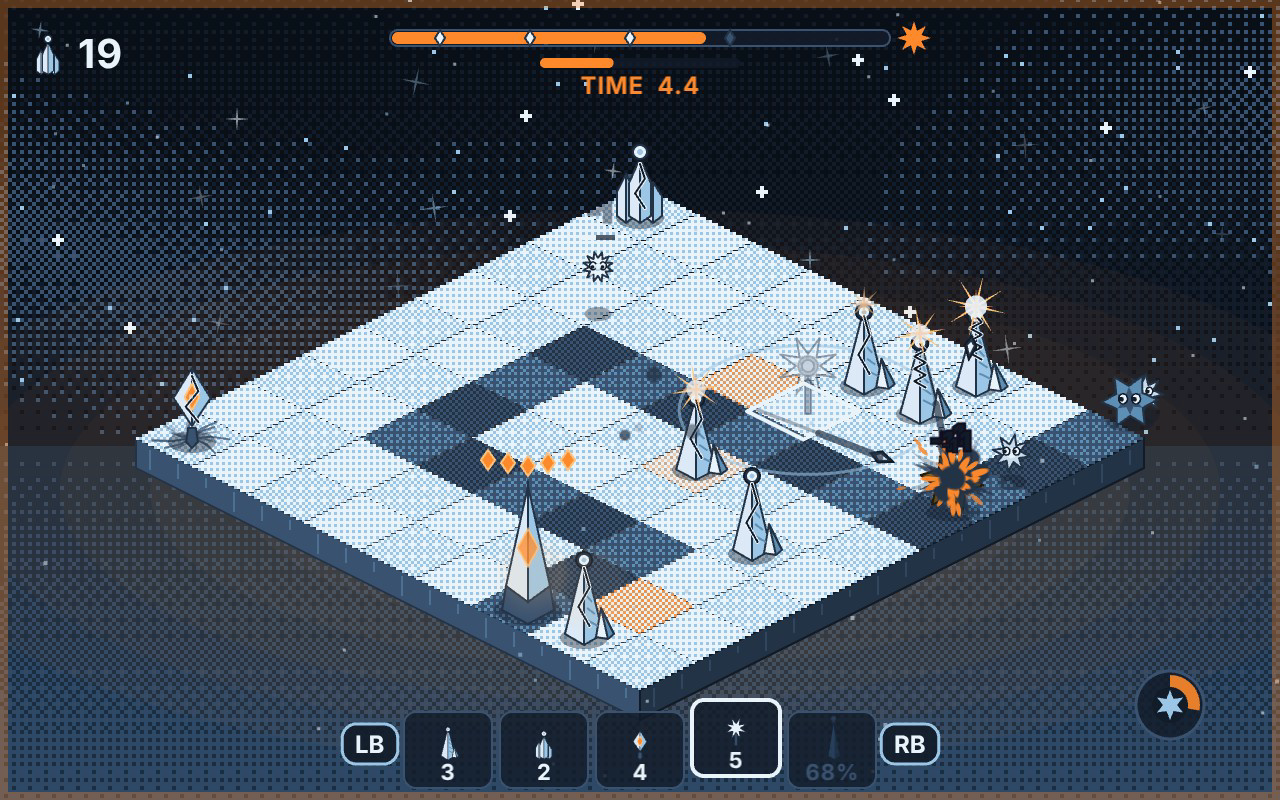
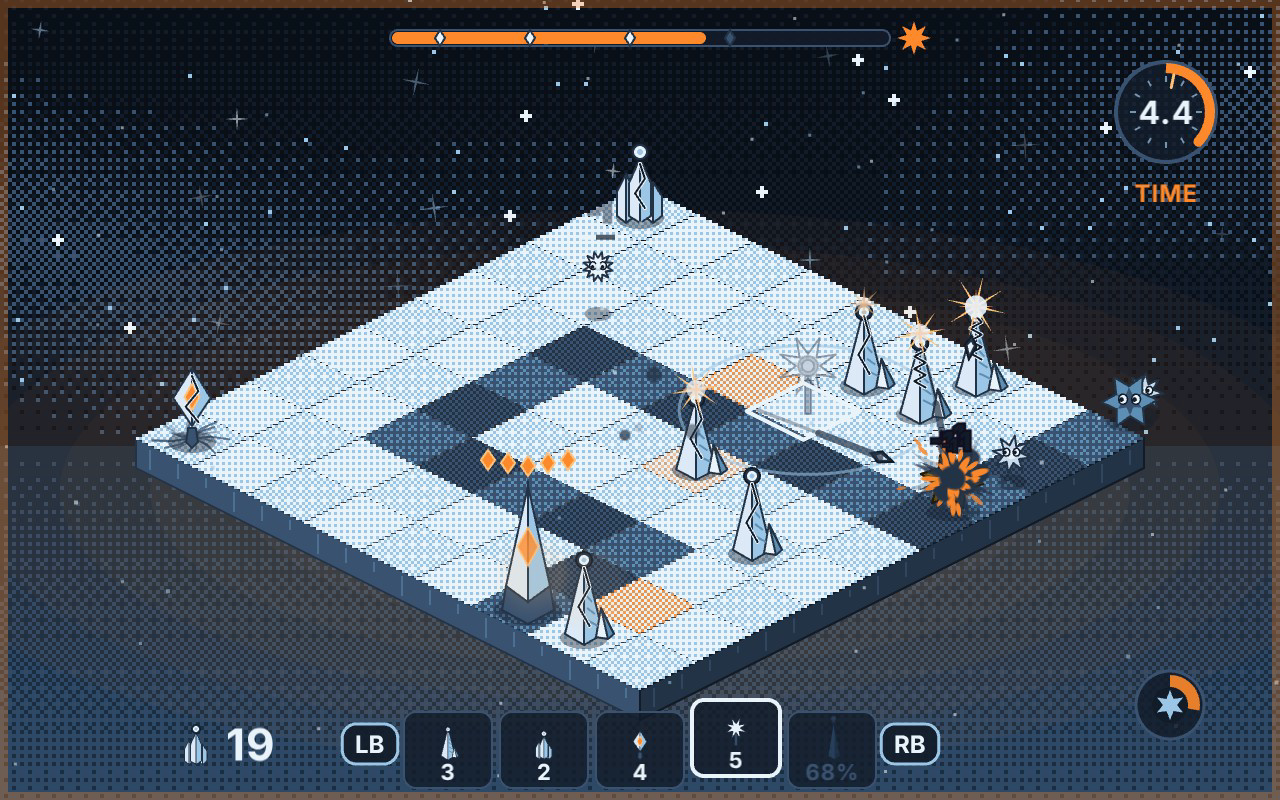
Stillwinter: ice counter beside the tray, a real dawn completion screen (rising sun, slammed title, counting tally, hearts, tier)
Claude-Session: https://claude.ai/code/session_011JBjUtYihjRYh297KB5YQM

diff --git a/src/protos/2026-10-30-stillwinter/index.ts b/src/protos/2026-10-30-stillwinter/index.ts
@@ -338,6 +338,18 @@ export function createPrototype(): Prototype {
   let endTitle!: Text;
   let endSub!: Text;
   let overlayEnd!: Graphics;
+  let winC!: Container;
+  let winSun!: Graphics;
+  let winRays!: Graphics;
+  let winTitle!: Text;
+  let winTier!: Text;
+  let winPanel!: Graphics;
+  let winRows: { label: Text; value: Text }[] = [];
+  let winHearts!: Graphics;
+  let winPrompt!: Text;
+  let winT = 0;
+  let winFlags = 0;
+  let winConfetti = 0;
 
   let curX = 640;
   let curY = 400;
@@ -480,6 +492,79 @@ export function createPrototype(): Prototype {
 
   function trayLayout(): void {
     trayPlates.forEach((p, i) => p.plate.parent && p.plate.parent.position.set(640 + (i - 2) * 96, 744));
+  }
+
+  function updateWin(dt: number): void {
+    const s = sim.s;
+    const tl = sim.telemetry();
+    winC.visible = true;
+    const lost = s.maxHearts - s.hearts;
+    // sun: rises behind the title with slowly turning rays
+    const rise = ease.outCubic(Math.min(1, winT / 1.6));
+    winSun.clear();
+    winSun.circle(0, 0, 120 * rise).fill({ color: C.glow, alpha: 0.35 });
+    winSun.circle(0, 0, 86 * rise).fill({ color: C.glow, alpha: 0.6 });
+    winSun.circle(0, 0, 54 * rise).fill({ color: 0xfff1d6, alpha: 0.95 });
+    winRays.clear();
+    star(winRays, 24, 420 * rise, 140 * rise, winT * 0.15).fill({ color: C.orange, alpha: 0.28 });
+    star(winRays, 12, 300 * rise, 120 * rise, -winT * 0.2).fill({ color: C.glow, alpha: 0.25 });
+    // title slams in
+    const ts = winT < 0.5 ? 0 : ease.outBack(Math.min(1, (winT - 0.5) / 0.45));
+    winTitle.scale.set(Math.max(0.01, 2.6 - 1.6 * ts));
+    winTitle.alpha = Math.min(1, Math.max(0, (winT - 0.5) / 0.15));
+    if (winT >= 0.55 && !(winFlags & 1)) {
+      winFlags |= 1;
+      shake(0.8);
+      hitStop(6);
+      punch(view.world as Container, 0.05);
+      ring(640, 250, C.glow, 700, 900, 8);
+      particles.emit('sparks', 640, 250, { count: 50, color: C.glow, speed: 2.4, size: 1.2 });
+      play('sw-snap', { pitch: 1.2, volume: 0.9 });
+    }
+    winTier.text = lost === 0 ? 'FLAWLESS: not a single heart lost' : lost <= 2 ? 'THE BEACON HELD' : 'THE BEACON HELD, BARELY';
+    winTier.alpha = Math.min(1, Math.max(0, (winT - 1.0) / 0.3));
+    // tally rows count up one after another
+    const rows: [string, number, string][] = [
+      ['Hearts left', s.hearts, ''],
+      ['Enemies broken', tl.kills, ''],
+      ['Best chain', tl.maxChain, 'x'],
+      ['Shatters', tl.shatters, ''],
+      ['Time released', Math.round(tl.thawedSeconds), 's'],
+    ];
+    winPanel.alpha = Math.min(1, Math.max(0, (winT - 1.2) / 0.3));
+    winHearts.clear();
+    rows.forEach(([label, v, suffix], i) => {
+      const start = 1.5 + i * 0.45;
+      const k = Math.min(1, Math.max(0, (winT - start) / 0.5));
+      const r = winRows[i];
+      r.label.text = label;
+      r.label.alpha = r.value.alpha = winT >= start ? 1 : 0;
+      if (i === 0) {
+        r.value.text = '';
+        for (let h = 0; h < s.maxHearts; h++) {
+          const filled = h < s.hearts && winT >= start + (h / Math.max(1, s.maxHearts)) * 0.5;
+          winHearts.poly(diamondPts(818 - (s.maxHearts - 1 - h) * 24 - 10, 428, 16, 24)).fill(filled ? C.orange : C.slate).stroke({ width: 2, color: filled ? C.glow : C.deep });
+        }
+      } else {
+        r.value.text = `${Math.round(v * ease.outCubic(k))}${suffix}`;
+      }
+      if (winT >= start && !(winFlags & (2 << i))) {
+        winFlags |= 2 << i;
+        play('sw-ice', { pitch: wholeTone(i * 1), volume: 0.7 });
+        punch(r.value, 0.25);
+        if (i === 0) particles.emit('sparks', 818, 428, { count: 12, color: C.orange, speed: 1.2, size: 0.9 });
+      }
+    });
+    // prompts, pulsing
+    const pk = Math.min(1, Math.max(0, (winT - 3.9) / 0.4));
+    winPrompt.text = `${glyph('y')}: Polar Night      ${glyph('a')}: again`;
+    winPrompt.alpha = pk * (0.7 + 0.3 * Math.sin(winT * 6));
+    // confetti keeps falling for the first seconds
+    winConfetti -= dt;
+    if (winConfetti <= 0 && winT < 8) {
+      winConfetti = 0.22;
+      particles.emit('confetti', vfxRange(100, 1180), 40, { count: 10, color: winT % 0.4 < 0.2 ? C.glow : C.ice, speed: 0.9, size: 1.2, angle: Math.PI / 2, spread: 0.7 });
+    }
   }
 
   function fmtHint(): string {
@@ -656,9 +741,10 @@ export function createPrototype(): Prototype {
       const iceIcon = new Graphics();
       drawSpire(iceIcon, 'crystal');
       iceIcon.scale.set(0.5);
-      iceIcon.position.set(48, 70);
-      iceText = mk(40, C.ice);
-      iceText.position.set(78, 28);
+      iceIcon.position.set(196, 760);
+      iceText = mk(44, C.ice);
+      iceText.anchor.set(0, 0.5);
+      iceText.position.set(226, 744);
       ui.addChild(iceIcon, iceText);
 
       // dawn bar
@@ -734,6 +820,38 @@ export function createPrototype(): Prototype {
       endSub.style.align = 'center';
       endSub.style.lineHeight = 48;
       endC.addChild(overlayEnd, endTitle, endSub);
+      // the dawn screen: a rising sun, a slammed title, and a tally that counts itself up
+      winC = new Container();
+      winSun = new Graphics();
+      winRays = new Graphics();
+      winSun.position.set(640, 250);
+      winRays.position.set(640, 250);
+      winTitle = new Text({ text: 'DAWN', style: { fontFamily: FONT, fontSize: 132, fill: C.ice, fontWeight: 'bold', letterSpacing: 10, stroke: { color: 0x7a3a10, width: 10 } } });
+      winTitle.anchor.set(0.5);
+      winTitle.position.set(640, 250);
+      winTier = mk(36, C.glow);
+      winTier.anchor.set(0.5);
+      winTier.position.set(640, 336);
+      winPanel = new Graphics().roundRect(430, 392, 420, 262, 20).fill({ color: C.night, alpha: 0.82 }).stroke({ width: 4, color: C.orange });
+      winC.addChild(winRays, winSun, winTitle, winTier, winPanel);
+      for (let i = 0; i < 5; i++) {
+        const label = mk(28, C.frost, 'normal');
+        label.anchor.set(0, 0.5);
+        label.position.set(462, 428 + i * 46);
+        const value = mk(34, C.ice);
+        value.anchor.set(1, 0.5);
+        value.position.set(818, 428 + i * 46);
+        winC.addChild(label, value);
+        winRows.push({ label, value });
+      }
+      winHearts = new Graphics();
+      winC.addChild(winHearts);
+      winPrompt = mk(32, C.ice);
+      winPrompt.anchor.set(0.5);
+      winPrompt.position.set(640, 706);
+      winC.addChild(winPrompt);
+      winC.visible = false;
+      endC.addChild(winC);
       endC.visible = false;
       ui.addChild(endC);
 
@@ -1102,7 +1220,7 @@ export function createPrototype(): Prototype {
         sunG.clear();
         sunG.circle(0, 0, 90 * (0.4 + sunrise * 0.6)).fill({ color: C.glow, alpha: 0.9 });
         star(sunG, 16, 190 * sunrise, 100 * sunrise).fill({ color: C.orange, alpha: 0.5 });
-        sunG.alpha = sunrise;
+        sunG.alpha = 0;
       }
 
       // music follows the game: frozen is a pad, flowing wakes the band, the hook rides the snap and the last stretch
@@ -1113,8 +1231,20 @@ export function createPrototype(): Prototype {
       }
 
       // end screens
+      {
+        const keep = new Set<unknown>([dim, rim, endC, bannerText, bannerSub, chainText]);
+        for (const c of uiLayer.children) if (!keep.has(c)) c.visible = s.phase === 'play';
+      }
       const wasEnd = endC.visible;
       endC.visible = s.phase !== 'play';
+      if (s.phase === 'won') {
+        winT += dt;
+        updateWin(dt);
+      } else {
+        winT = 0;
+        winFlags = 0;
+        winC.visible = false;
+      }
       if (endC.visible && !wasEnd) overlayEnd.alpha = 0;
       if (endC.visible) {
         overlayEnd.alpha = Math.min(0.62, overlayEnd.alpha + dt * 0.8);
@@ -1135,6 +1265,7 @@ export function createPrototype(): Prototype {
           sunrise = 0;
           sunG.alpha = 0;
           endC.visible = false;
+          winC.visible = false;
           for (const f of flyers) { f.trail.gfx.destroy(); f.txt.destroy(); }
           flyers = [];
           pendingFly = 0;
@@ -1460,14 +1591,12 @@ export function createPrototype(): Prototype {
           break;
         }
         case 'complete': {
-          endTitle.text = 'DAWN';
-          endTitle.style.fill = C.glow;
-          endTitle.style.fontSize = 96;
-          { const tl = sim.telemetry(); endSub.text = `${sim.s.hearts} of ${sim.s.maxHearts} hearts left  ·  ${tl.kills} kills  ·  best chain ${tl.maxChain}  ·  ${tl.shatters} shatters\n${glyph('y')}: keep going into the Polar Night      ${glyph('a')}: again`; }
+          endTitle.text = '';
+          endSub.text = '';
           overlayEnd.clear().rect(0, 0, 1280, 800).fill(0x3d2210);
-          shake(0.5);
-          particles.emit('confetti', 640, 300, { count: 60, color: C.glow, speed: 1.6, size: 1.4 });
-          particles.emit('sparks', 640, 300, { count: 60, color: C.orange, speed: 2, size: 1.2 });
+          winT = 0;
+          winFlags = 0;
+          winConfetti = 0;
           if (mset) { music.release(1.0); music.stinger(mset.win, { duck: 0.9 }); }
           play('sw-unlock', { pitch: 1.5, volume: 1 });
           break;
